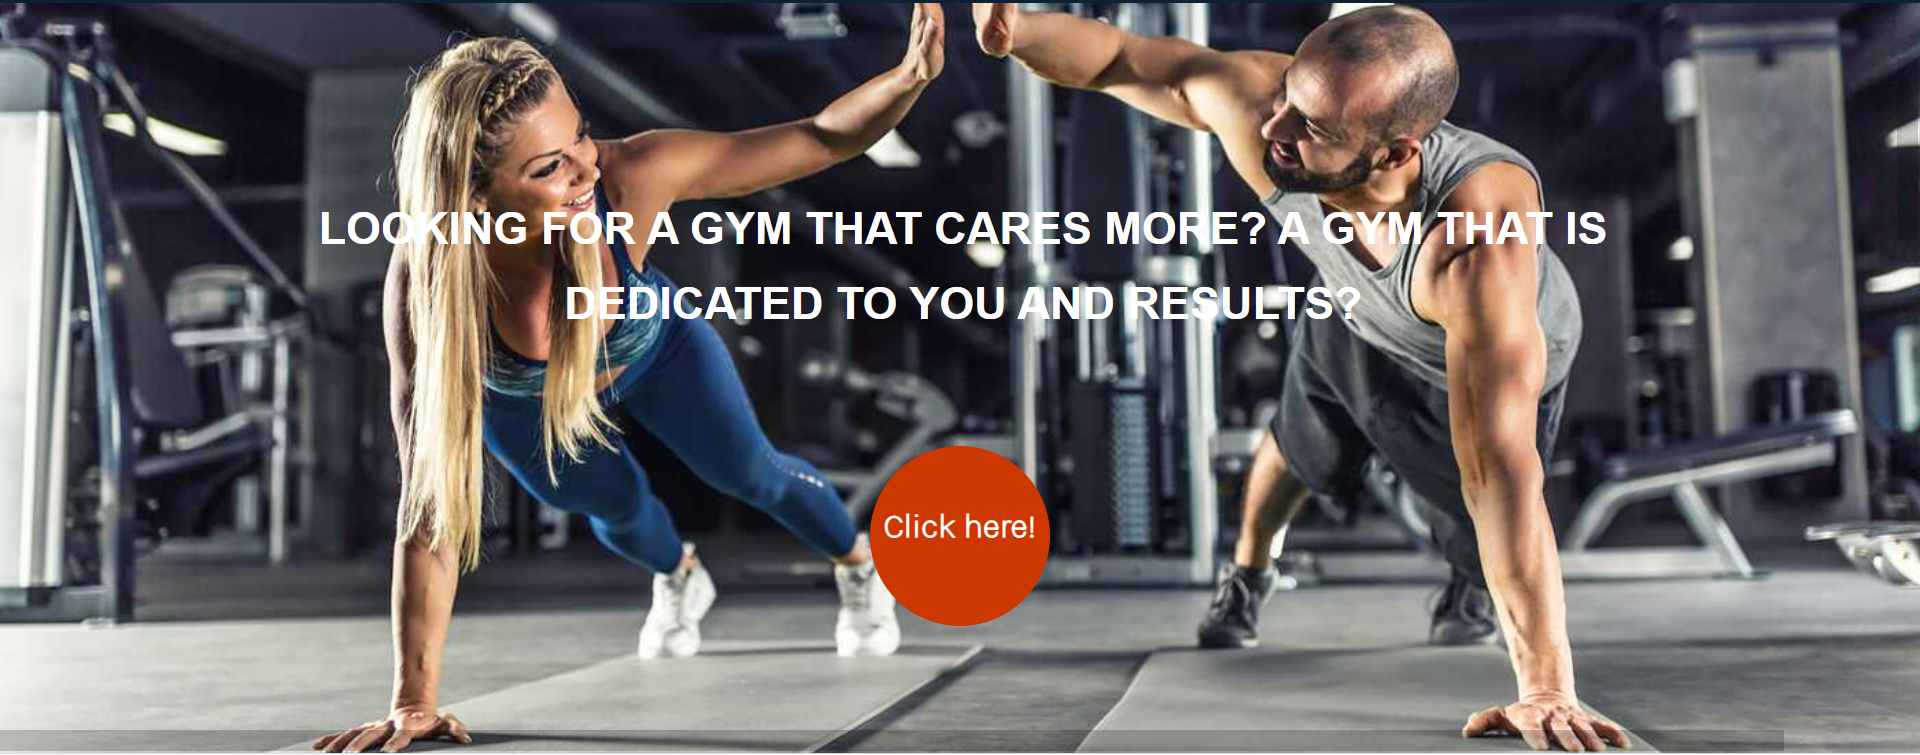
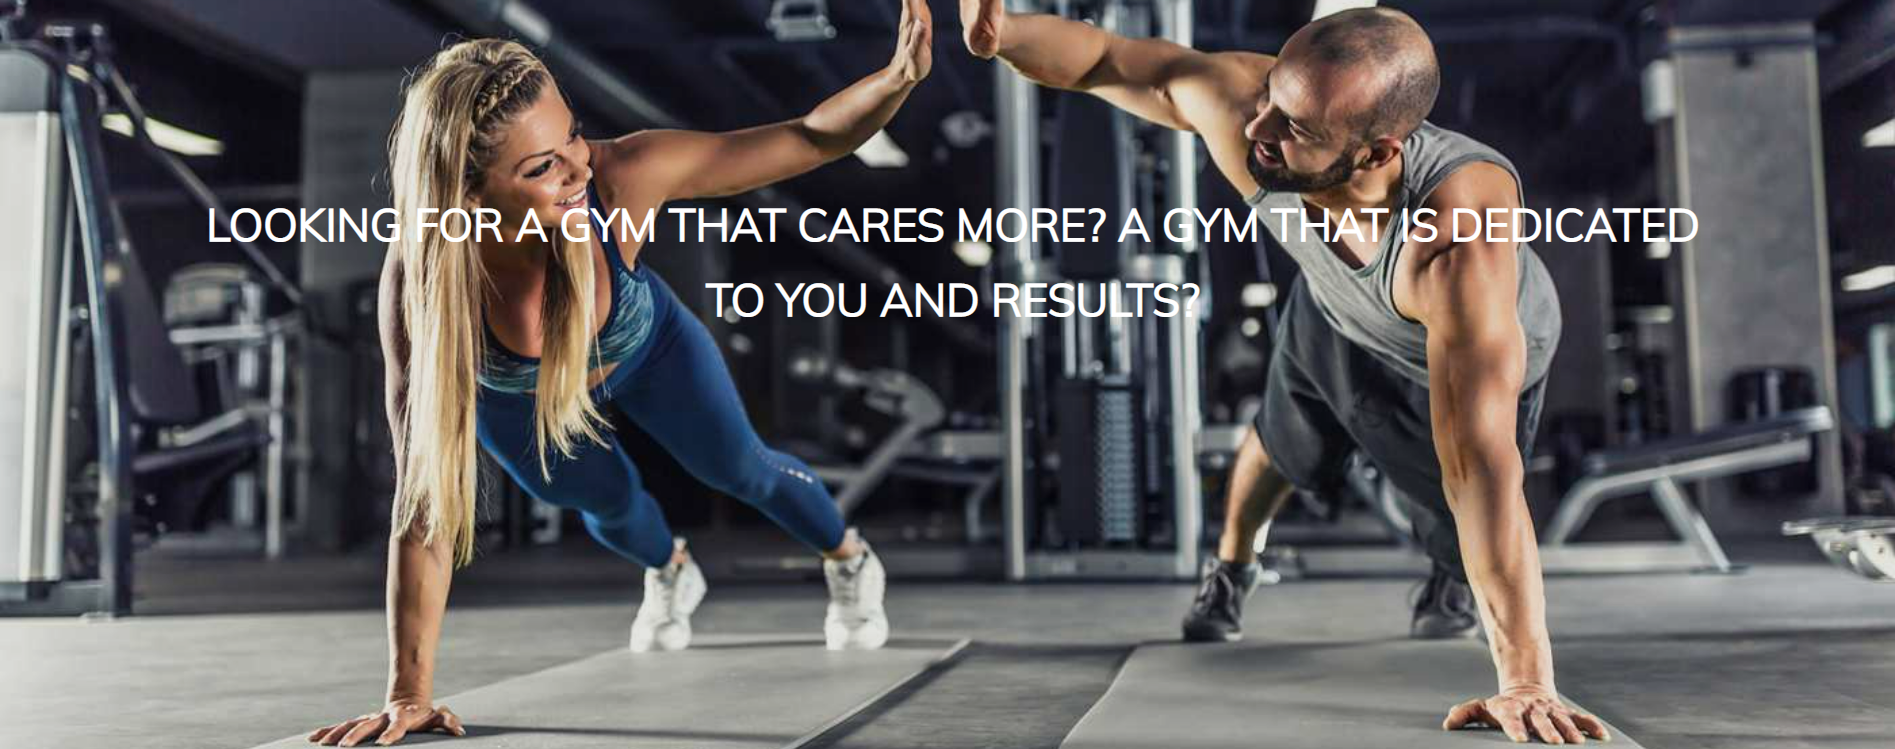
docs: README.md add content

diff --git a/README.md b/README.md
@@ -73,7 +73,7 @@
 - People who need a guide for work and meal plans
 - Athletes
 
-### User Reqirements and Expecttaions
+### User Reqirements and Expectaions
 
 - Accessable site
 - Navigations that are simple to use
@@ -117,7 +117,9 @@ This wedsite was designed to give a bright, energetic, and classy feel for peopl
 The colors a bright orange and very dark blue which speakes enery and look good together. These two color also promotes accessiblity. It is one of the perfect color scheme for a gym.
 
 ### Fonts
-The font style was chosen to give a warm gym and not to rough or macho. They give the website just enough to warm the eyes of all types of audiences.
+The font style was chosen to give a warm gym and not to rough or macho. They give the website just enough to warm the eyes of all types of audiences. 
+Karla was set for the body font with sans serif as a default
+Mulish was used for some headings with Sans serif as a default
 
 ### Structure
 This website was structured with the gym logo which give a gym it character but also with the regular easy to use nav bar, a body of information and the regular footer which give the final characteristics of a funtional webpage. The wedsite has three pages:
